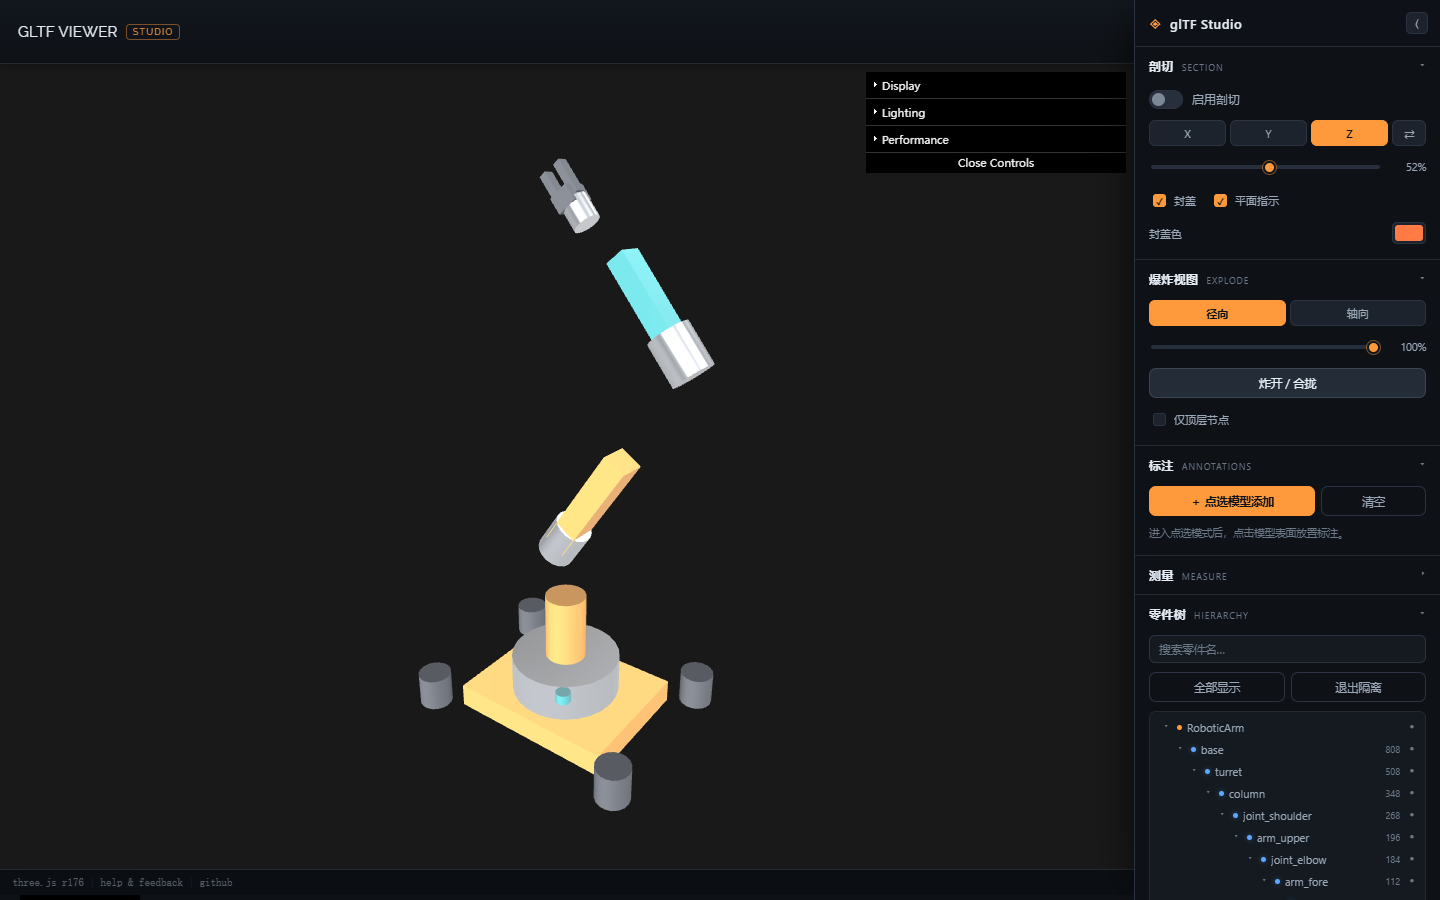
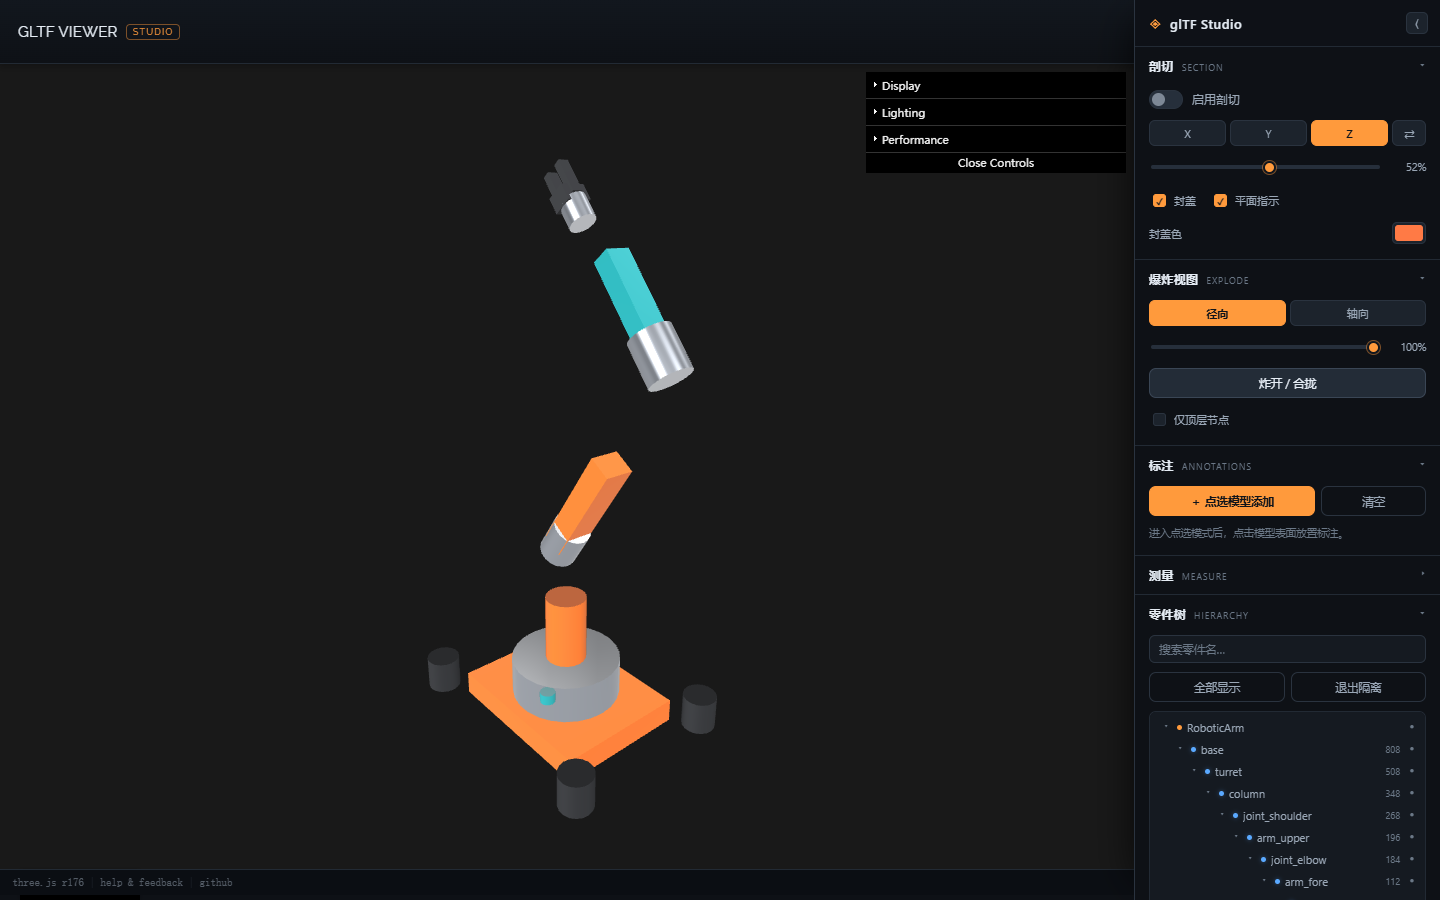
fix: sample model colours were authored in sRGB but written as linear
glTF's baseColorFactor is defined in linear space. make_sample.py was
writing the sRGB numbers straight through, so after tone mapping the
orange body rendered as pale yellow and the whole model looked washed
out. srgb_to_linear() now converts each channel before it hits the
material, and the four materials read as the intended colours:
body #de6b1f, joints #a8adb5, rubber #1c1e22, accent #21a3a8.

Also in this commit:

- LICENSE is back to the untouched upstream MIT text so GitHub detects
  "MIT" instead of "Other"; the additions' copyright statement moved into
  NOTICE, which is where the rest of the attribution already lives.
- The camera's 3/4 direction is closer to 1:1 on X:Z so the arm's own
  Z-bend no longer pulls the visual weight to the left.
- tools/verify.mjs writes its evidence screenshots to shots/verify/ with a
  verify- prefix, and that directory is gitignored. Before this it shared
  shots/ with tools/shots.mjs and kept overwriting the delivery images.

Changed region(s): [[0.2812, 0.4978, 0.5, 0.9333], [0.4062, 0.28, 0.5, 0.4356], [0.375, 0.1556, 0.4375, 0.2489]]

diff --git a/src/viewer.js b/src/viewer.js
@@ -366,8 +366,9 @@ export class Viewer {
 			const pad = vp.h < vp.fullH * 0.8 ? 1.35 : 1.06;
 			const dist = Math.max(radius / Math.sin(fov / 2), radius / Math.sin(hFov / 2)) * pad;
 
-			// 经典 3/4 视角
-			const dir = new Vector3(0.62, 0.40, 0.85).normalize();
+			// 经典 3/4 视角。X/Z 比例接近 1:1，配合模型自身的 Z 轴折臂，
+			// 视觉重心才会落在画面中央（纯 0.62:0.85 会让上臂明显向左倾）。
+			const dir = new Vector3(0.86, 0.40, 0.72).normalize();
 			this.defaultCamera.position.copy(dir.multiplyScalar(dist));
 
 			this.applyViewOffset();

diff --git a/tools/make_sample.py b/tools/make_sample.py
@@ -171,11 +171,26 @@ def qz(deg):
 
 
 # ----------------------------------------------------------------- 材质
+#
+# 注意：glTF 的 baseColorFactor 是**线性空间**值，不是 sRGB。
+# 第一版直接照 sRGB 数值填（比如橙色写 [0.87,0.42,0.12]），
+# 渲染时又被当成线性值经色调映射输出，结果橙色变成浅黄、整体发灰发白。
+# 这里统一从 sRGB 十六进制转成线性，保证"看起来就是那个颜色"。
 
-m_body = add_material("body_orange", [0.87, 0.42, 0.12], 0.10, 0.55)
-m_steel = add_material("joint_steel", [0.66, 0.69, 0.73], 0.85, 0.28)
-m_dark = add_material("rubber_dark", [0.11, 0.12, 0.14], 0.05, 0.88)
-m_accent = add_material("accent_teal", [0.13, 0.55, 0.58], 0.30, 0.40)
+
+def srgb_to_linear(hex_str):
+    h = hex_str.lstrip('#')
+    out = []
+    for i in (0, 2, 4):
+        c = int(h[i : i + 2], 16) / 255
+        out.append(round(c / 12.92 if c <= 0.04045 else ((c + 0.055) / 1.055) ** 2.4, 4))
+    return out
+
+
+m_body = add_material("body_orange", srgb_to_linear("#de6b1f"), 0.10, 0.55)
+m_steel = add_material("joint_steel", srgb_to_linear("#a8adb5"), 0.85, 0.28)
+m_dark = add_material("rubber_dark", srgb_to_linear("#1c1e22"), 0.05, 0.88)
+m_accent = add_material("accent_teal", srgb_to_linear("#21a3a8"), 0.30, 0.40)
 
 # ----------------------------------------------------------------- 几何
 # 关键：每个零件在"父节点的关节原点"处与父件重叠，避免悬空。
